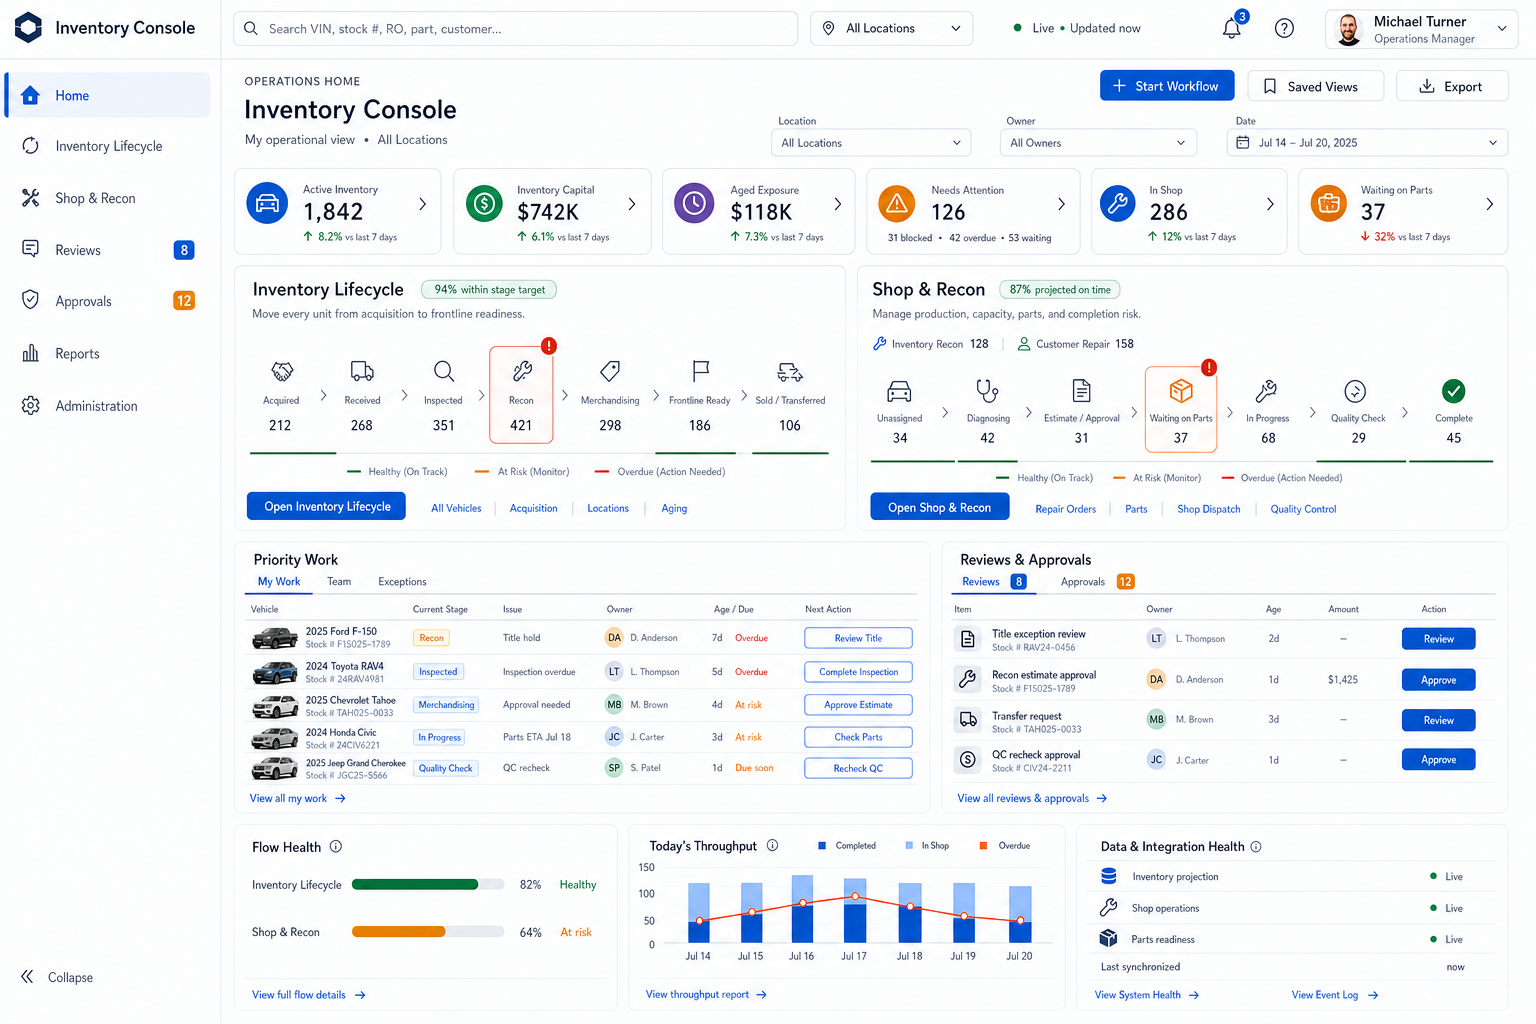
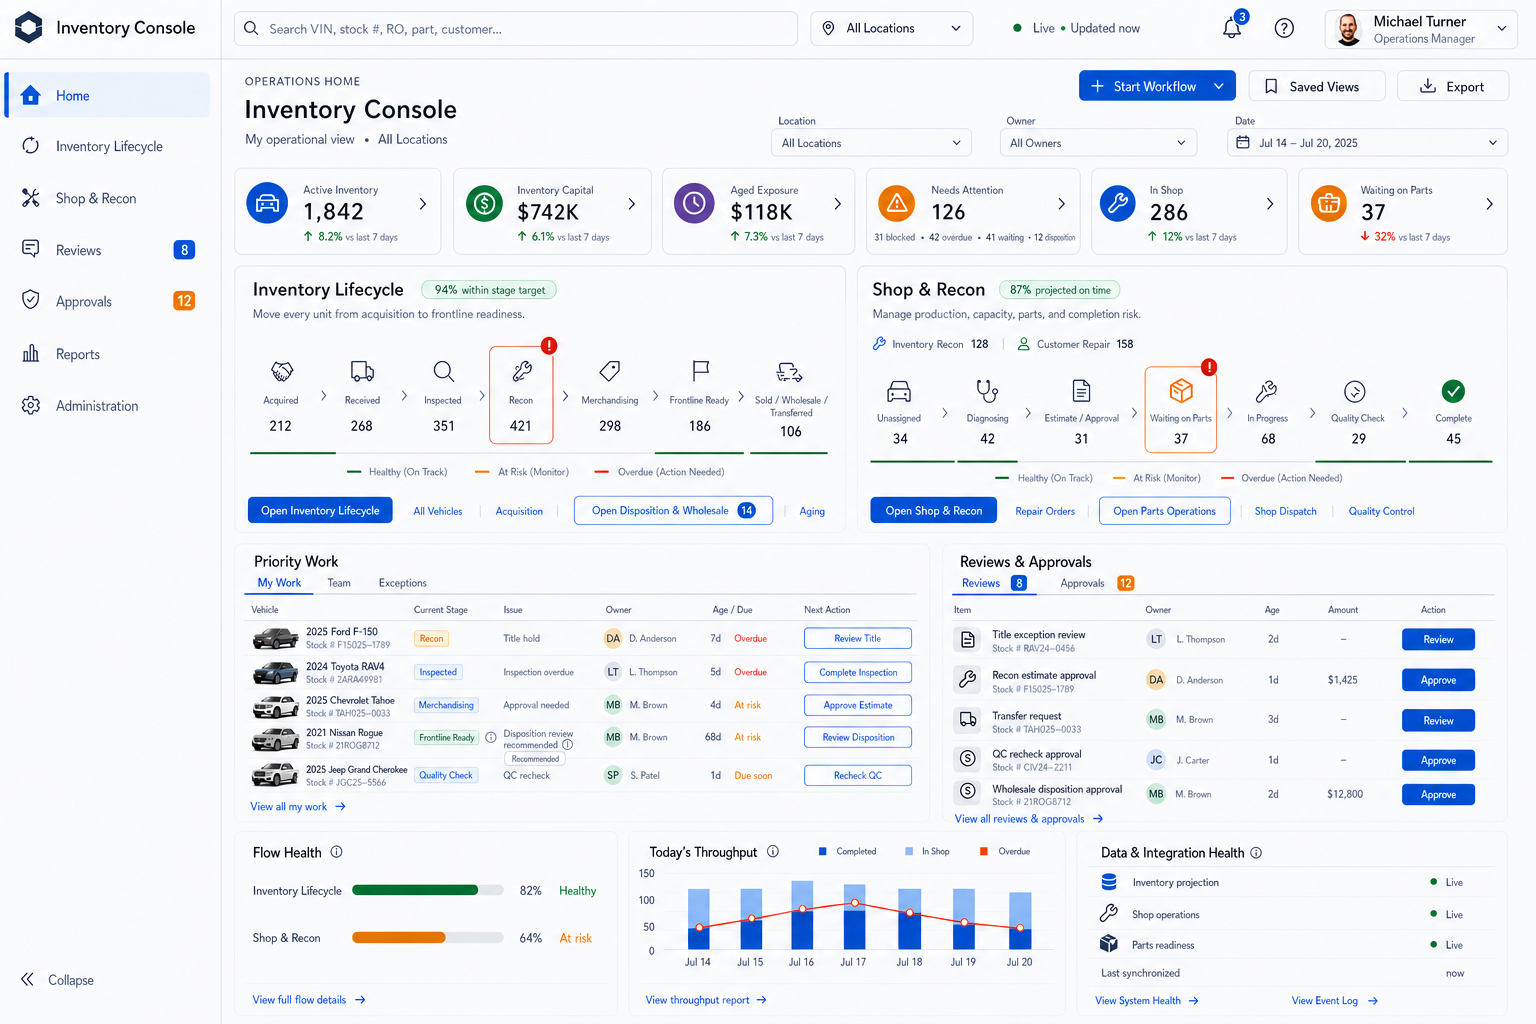
inventory console UI refinement

diff --git a/docs/inventory/INVENTORY_CONSOLE_LANDING_PAGES_UI_SOURCE_OF_TRUTH.md b/docs/inventory/INVENTORY_CONSOLE_LANDING_PAGES_UI_SOURCE_OF_TRUTH.md
@@ -2,8 +2,8 @@
 
 **Product:** Time Motor Sales Dispatch Board
 **Module:** Inventory Console
-**Version:** 1.1 approved baseline
-**Date adopted:** 2026-07-16
+**Version:** 1.2 approved baseline
+**Date adopted:** 2026-07-16; refined and re-approved 2026-07-17
 **Status:** Approved visual and interaction source of truth; implementation not yet started
 
 ---
@@ -16,8 +16,12 @@ The three images in this document are the binding desktop landing-page reference
 - Selecting **Inventory Lifecycle** must land the staff member on the approved Inventory Lifecycle page.
 - Selecting **Shop & Recon** must land the staff member on the approved Shop & Recon page.
 - **Reviews** and **Approvals** remain first-class console destinations and must also be visible in the relevant landing-page workflow panels.
+- **Disposition & Wholesale** is an explicit deeper workspace under Inventory Lifecycle, reached through the prominent **Open Disposition & Wholesale** command.
+- **Parts Operations** is an explicit deeper workspace under Shop & Recon, reached through the prominent **Open Parts Operations** command.
 
 The images define the approved information hierarchy, page composition, navigation emphasis, operational density, visual language, and relationship between summary metrics and actionable work. Values, names, counts, dates, and example vehicles shown in the mockups are illustrative and must be supplied by authoritative application data when implemented.
+
+Wholesale algorithms and parts recommendations are decision support. They may explain and propose actions, but an authorized staff member must review and explicitly approve any consequential action.
 
 ## 2. Inventory Console Home landing page
 
@@ -35,8 +39,11 @@ The implementation must preserve:
 - compact operational KPIs covering active inventory, inventory capital, aged exposure, needs attention, in-shop work, and waiting-parts work
 - explicit blocked, overdue, and waiting breakdown for work needing attention
 - equal routing prominence for Inventory Lifecycle and Shop & Recon
+- equal, prominent contextual commands for **Open Disposition & Wholesale** and **Open Parts Operations** without adding either as a primary navigation tab
 - Inventory Lifecycle stage-target performance and visible bottleneck state
+- visible wholesale/disposition priority work, candidate count, recommendation context, and approval state
 - Shop & Recon projected-on-time performance and explicit Inventory Recon versus Customer Repair workload separation
+- visible parts readiness, waiting-parts work, and parts-operations health
 - contextual links to deeper capabilities instead of additional primary tabs
 - Priority Work with My Work, Team, and Exceptions views
 - Reviews & Approvals with direct authorized actions
@@ -57,11 +64,15 @@ The implementation must preserve:
 - selected Inventory Lifecycle navigation state
 - Reviews and Approvals navigation with visible pending counts when available
 - compact filters and interactive KPI strip
-- lifecycle pipeline from acquisition through sale or transfer
+- a prominent **Open Disposition & Wholesale** command in the page header
+- lifecycle pipeline from acquisition through the final **Sold / Wholesale / Transferred** state
 - visible bottleneck identification
+- aged-exposure and disposition-candidate visibility
 - priority work queue with ownership, blockers, due state, and next action
+- disposition recommendations that expose their rationale and remain advisory until authorized approval
+- wholesale disposition approval in the relevant Reviews & Approvals context
 - Reviews & Approvals panel with direct Review and Approve actions subject to authorization
-- lifecycle velocity, stage bottleneck, and inventory-aging summaries
+- lifecycle velocity, stage bottleneck, inventory-aging, and disposition summaries
 
 ## 4. Shop & Recon landing page
 
@@ -75,10 +86,14 @@ The implementation must preserve:
 - selected Shop & Recon navigation state
 - Reviews and Approvals navigation with visible pending counts when available
 - compact filters and actionable daily-production KPIs
+- a prominent **Open Parts Operations** command in the page header
 - production flow from unassigned work through completion
 - prominent constraint and waiting-parts visibility
+- parts-readiness and waiting-on-parts readiness metrics
 - readable vehicle work cards with ownership, promise state, readiness, priority, and blockers
-- Capacity & Assignment, Blocker Center, and Reviews & Approvals operating panels
+- Capacity & Assignment, Blocker Center, Reviews & Approvals, and Parts Operations operating panels
+- purchase and substitution recommendations that require authorized human approval
+- parts operations metrics for requests, orders, receipts, issues, installations, transfers, reconciliation, and exceptions when supported by authoritative data
 - daily throughput, work-type cycle time, and at-risk completion summaries
 
 ## 5. Navigation contract
@@ -88,6 +103,8 @@ The implementation must preserve:
 | Enter the Inventory Console or select **Home** | Approved Inventory Console Home landing page in section 2 |
 | Select **Inventory Lifecycle** | Approved Inventory Lifecycle landing page in section 3 |
 | Select **Shop & Recon** | Approved Shop & Recon landing page in section 4 |
+| Select **Open Disposition & Wholesale** | Disposition & Wholesale workspace within Inventory Lifecycle, preserving location, filter, and return context |
+| Select **Open Parts Operations** | Parts Operations workspace within Shop & Recon, preserving location, filter, and return context |
 | Select **Reviews** | Enterprise review queue scoped by role and location |
 | Select **Approvals** | Enterprise approval queue scoped by authority and location |
 | Select a landing-page review or approval item | The corresponding review or approval detail, with return context preserved |
@@ -107,6 +124,8 @@ The application route names may follow the repository's routing conventions, but
 - Search supports the identifiers available from authoritative backend sources.
 - Reviews and approvals show owner, age, status, and the next authorized action.
 - Approval actions enforce server-side authority, required reasons, and audit history.
+- Wholesale recommendations must expose available rationale, source freshness, assumptions, confidence or uncertainty, and alternatives; price changes, channel activation, transfers, releases, or disposition decisions require an authorized human command.
+- Parts recommendations must expose available rationale, source freshness, constraints, and alternatives; purchases, substitutions, transfers, adjustments, issues, installations, or reconciliation actions require an authorized human command.
 - Blocked, overdue, waiting, and stale states use text or icons in addition to color.
 - Data freshness, partial-data, source-unavailable, loading, empty, error, and permission-denied states must be explicit.
 - Role-based layouts may prioritize different panels, but they must preserve the approved page identity and core operating model.
@@ -117,4 +136,4 @@ This decision supersedes the older control-tower mockup only as the **default In
 
 ## 8. Change control
 
-Any material change to the Home routing model, workflow-start command, primary navigation, either destination page's pipeline or production flow, priority-work placement, Reviews & Approvals visibility, event-log access, or core operating panels requires explicit product approval and a versioned update to this document and its approved image.
+Any material change to the Home routing model, workflow-start command, primary navigation, either destination page's pipeline or production flow, **Open Disposition & Wholesale**, **Open Parts Operations**, priority-work placement, Reviews & Approvals visibility, event-log access, approval guardrails, or core operating panels requires explicit product approval and a versioned update to this document and its approved image.
